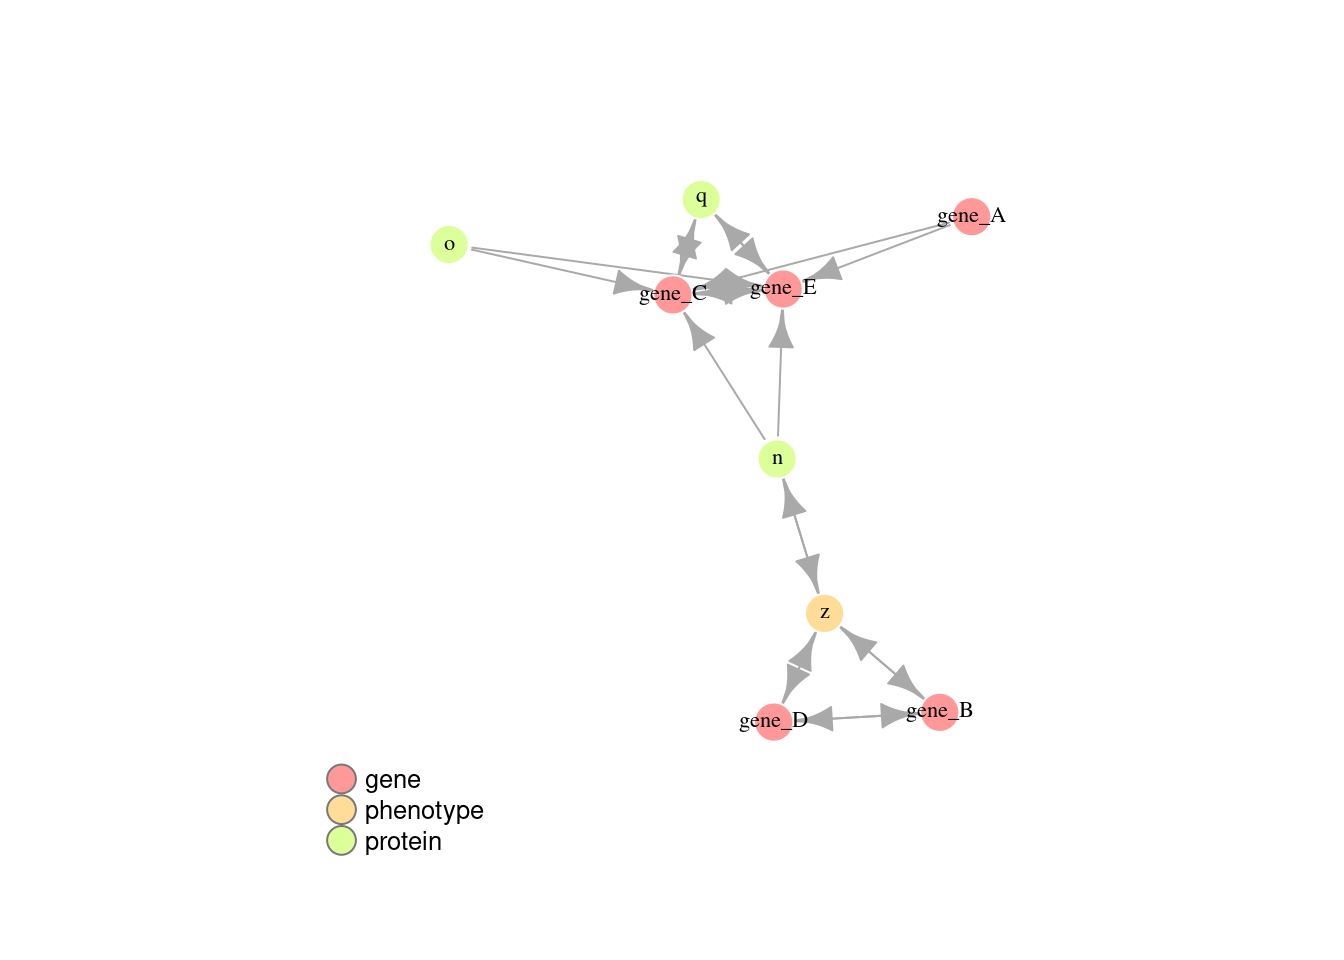
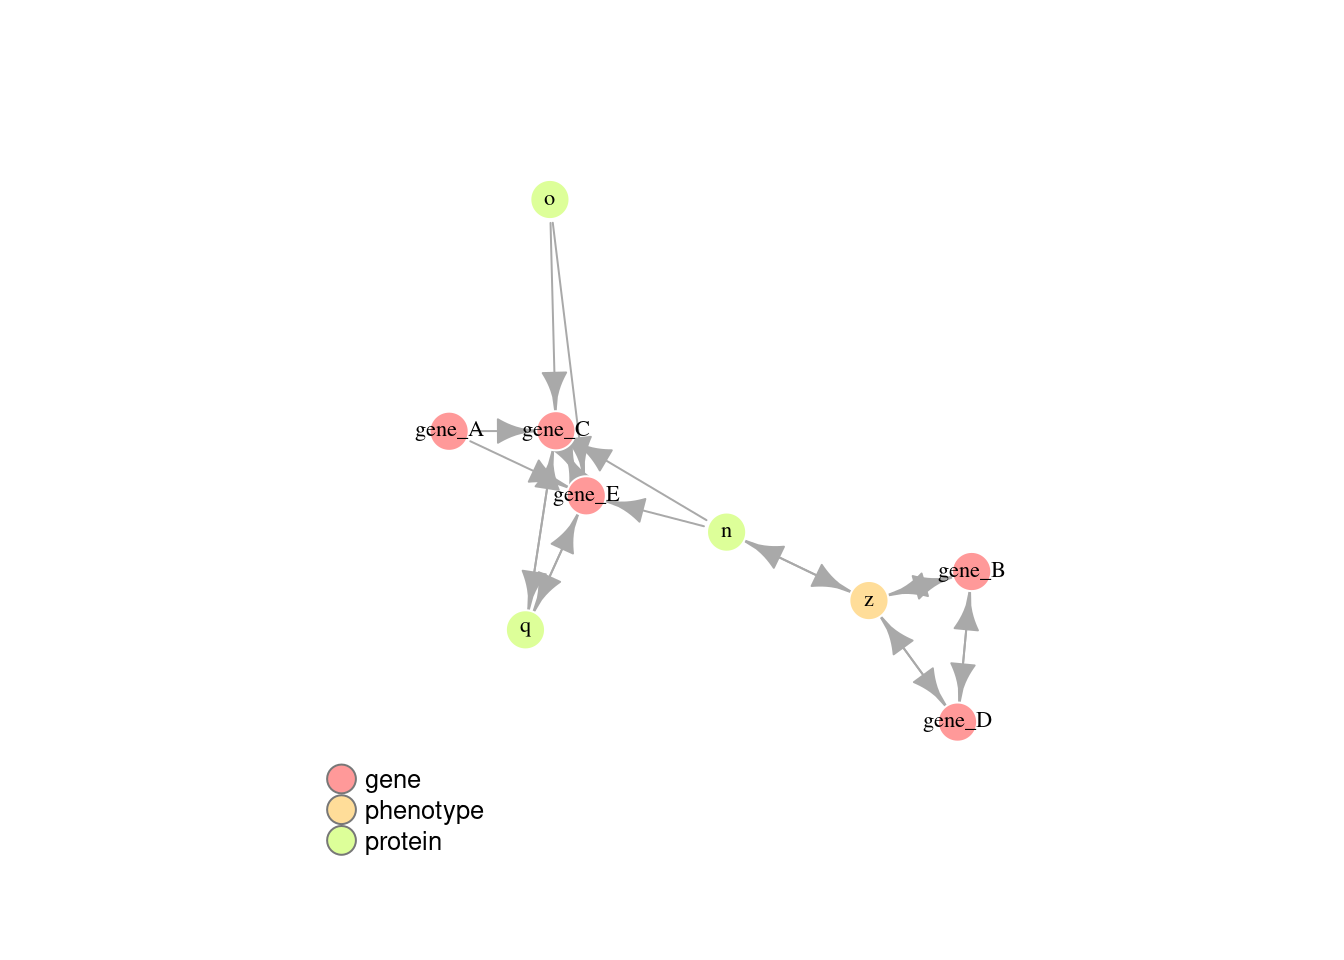
prior will not be inferred per default

Changed region(s): [[0.3125, 0.1875, 0.75, 0.7812], [0.6562, 0.1875, 0.75, 0.25]]

diff --git a/docs/index.html b/docs/index.html
@@ -252,7 +252,7 @@ KiMONo
 </div>
 Knowledge Guided Multi-Omic Network Inference</h1>
 <h4 class="date"><center>
-25 Oktober 2021
+26 Oktober 2021
 </center></h4>
 
 </div>
@@ -419,15 +419,16 @@ legend(x=-1.5, y=-1.1, c(&quot;Genes&quot;,&quot;Proteins&quot;), pch=21,
 <p>Sparse Group Lasso penalty: <span class="math display">\[  \frac{1}{2n} \Bigg|\Bigg| y - \sum_{l=1}^{m} X^{(l)} \beta^{(l)} \Bigg|\Bigg|_{2}^{2} + ( 1 - \alpha ) \lambda \sum_{l=1}^{m} \sqrt{p_{l}}\big|\big|\beta^{(l)}\big|\big|_2  + \alpha\lambda\big|\big|\beta \big|\big|_1 \]</span></p>
 <div id="call-kimono" class="section level2">
 <h2>Call KiMONo</h2>
-<pre class="r"><code>network &lt;- kimono(input_data, prior_network ,core = 2)</code></pre>
+<pre class="r"><code>network &lt;- kimono(input_data, prior_network ,core = 2, infer_missing_prior = TRUE)</code></pre>
 <pre><code>## 1) input data:
 ## layer - samples - features - prior features
 ## gene  -  100  -  5  - 5 
 ## protein  -  100  -  5  - 5 
 ## phenotype  -  100  -  1  - 0
 ## 
-## 2) inference for layers  gene protein 
-## 2021-10-25 22:58:54 starting inference of  10  models
+## 2) inference:
+##  for layers  gene protein 
+## 2021-10-26 12:52:48 starting inference of  10  models
 ## 
   |                                                                            
   |                                                                      |   0%
@@ -452,14 +453,17 @@ legend(x=-1.5, y=-1.1, c(&quot;Genes&quot;,&quot;Proteins&quot;), pch=21,
   |                                                                            
   |======================================================================| 100%
 ## 
-## 3) inference for  phenotype 
-## 2021-10-25 22:58:57 starting inference of  1  models
+## 3) missing prior 
+## phenotype 
+## overall layer
+## 2021-10-26 12:52:52 starting inference of  1  models
 ## 
   |                                                                            
   |                                                                      |   0%
   |                                                                            
   |======================================================================| 100%
-## Done 0.1 min</code></pre>
+## 
+## Done 0.13 min</code></pre>
 <pre class="r"><code>#plot network
 to_igraph(network) %&gt;% plot_kimono(title=&#39;KiMONo Network (directed)&#39;)</code></pre>
 <p><img src="index_files/figure-html/unnamed-chunk-10-1.png" width="672" /></p>
@@ -480,8 +484,8 @@ to_igraph(network) %&gt;% plot_kimono(title=&#39;KiMONo Network (directed)&#39;)
 </ul>
 <p><br></p>
 <pre class="r"><code>DT::datatable(head(network), class = &#39;cell-border stripe&#39;)</code></pre>
-<div id="htmlwidget-67b462a07d1a52dc53b6" style="width:100%;height:auto;" class="datatables html-widget"></div>
-<script type="application/json" data-for="htmlwidget-67b462a07d1a52dc53b6">{"x":{"filter":"none","vertical":false,"data":[["1","2","3","4","5","6"],["gene_B","gene_B","gene_B","gene_B","gene_B","gene_B"],["(Intercept)","gene_A","gene_C","gene_D","gene_E","m"],[-8.51582596336706e-19,0,0,0.0622081704422632,0,0],[0.123749997868509,0.123749997868509,0.123749997868509,0.123749997868509,0.123749997868509,0.123749997868509],[0.779065468367681,0.779065468367681,0.779065468367681,0.779065468367681,0.779065468367681,0.779065468367681],["(Intercept)","gene","gene","gene","gene","protein"],["gene","gene","gene","gene","gene","gene"]],"container":"<table class=\"cell-border stripe\">\n  <thead>\n    <tr>\n      <th> <\/th>\n      <th>target<\/th>\n      <th>predictor<\/th>\n      <th>value<\/th>\n      <th>r_squared<\/th>\n      <th>mse<\/th>\n      <th>predictor_layer<\/th>\n      <th>target_layer<\/th>\n    <\/tr>\n  <\/thead>\n<\/table>","options":{"columnDefs":[{"className":"dt-right","targets":[3,4,5]},{"orderable":false,"targets":0}],"order":[],"autoWidth":false,"orderClasses":false}},"evals":[],"jsHooks":[]}</script>
+<div id="htmlwidget-2e46a7bf182049d417a2" style="width:100%;height:auto;" class="datatables html-widget"></div>
+<script type="application/json" data-for="htmlwidget-2e46a7bf182049d417a2">{"x":{"filter":"none","vertical":false,"data":[["1","2","3","4","5","6"],["gene_B","gene_B","gene_B","gene_B","gene_B","gene_B"],["(Intercept)","gene_A","gene_C","gene_D","gene_E","m"],[-8.51582596336706e-19,0,0,0.0622081704422632,0,0],[0.123749997868509,0.123749997868509,0.123749997868509,0.123749997868509,0.123749997868509,0.123749997868509],[0.779065468367681,0.779065468367681,0.779065468367681,0.779065468367681,0.779065468367681,0.779065468367681],["(Intercept)","gene","gene","gene","gene","protein"],["gene","gene","gene","gene","gene","gene"]],"container":"<table class=\"cell-border stripe\">\n  <thead>\n    <tr>\n      <th> <\/th>\n      <th>target<\/th>\n      <th>predictor<\/th>\n      <th>value<\/th>\n      <th>r_squared<\/th>\n      <th>mse<\/th>\n      <th>predictor_layer<\/th>\n      <th>target_layer<\/th>\n    <\/tr>\n  <\/thead>\n<\/table>","options":{"columnDefs":[{"className":"dt-right","targets":[3,4,5]},{"orderable":false,"targets":0}],"order":[],"autoWidth":false,"orderClasses":false}},"evals":[],"jsHooks":[]}</script>
 </div>
 </div>
 <div id="network-analysis" class="section level1">
